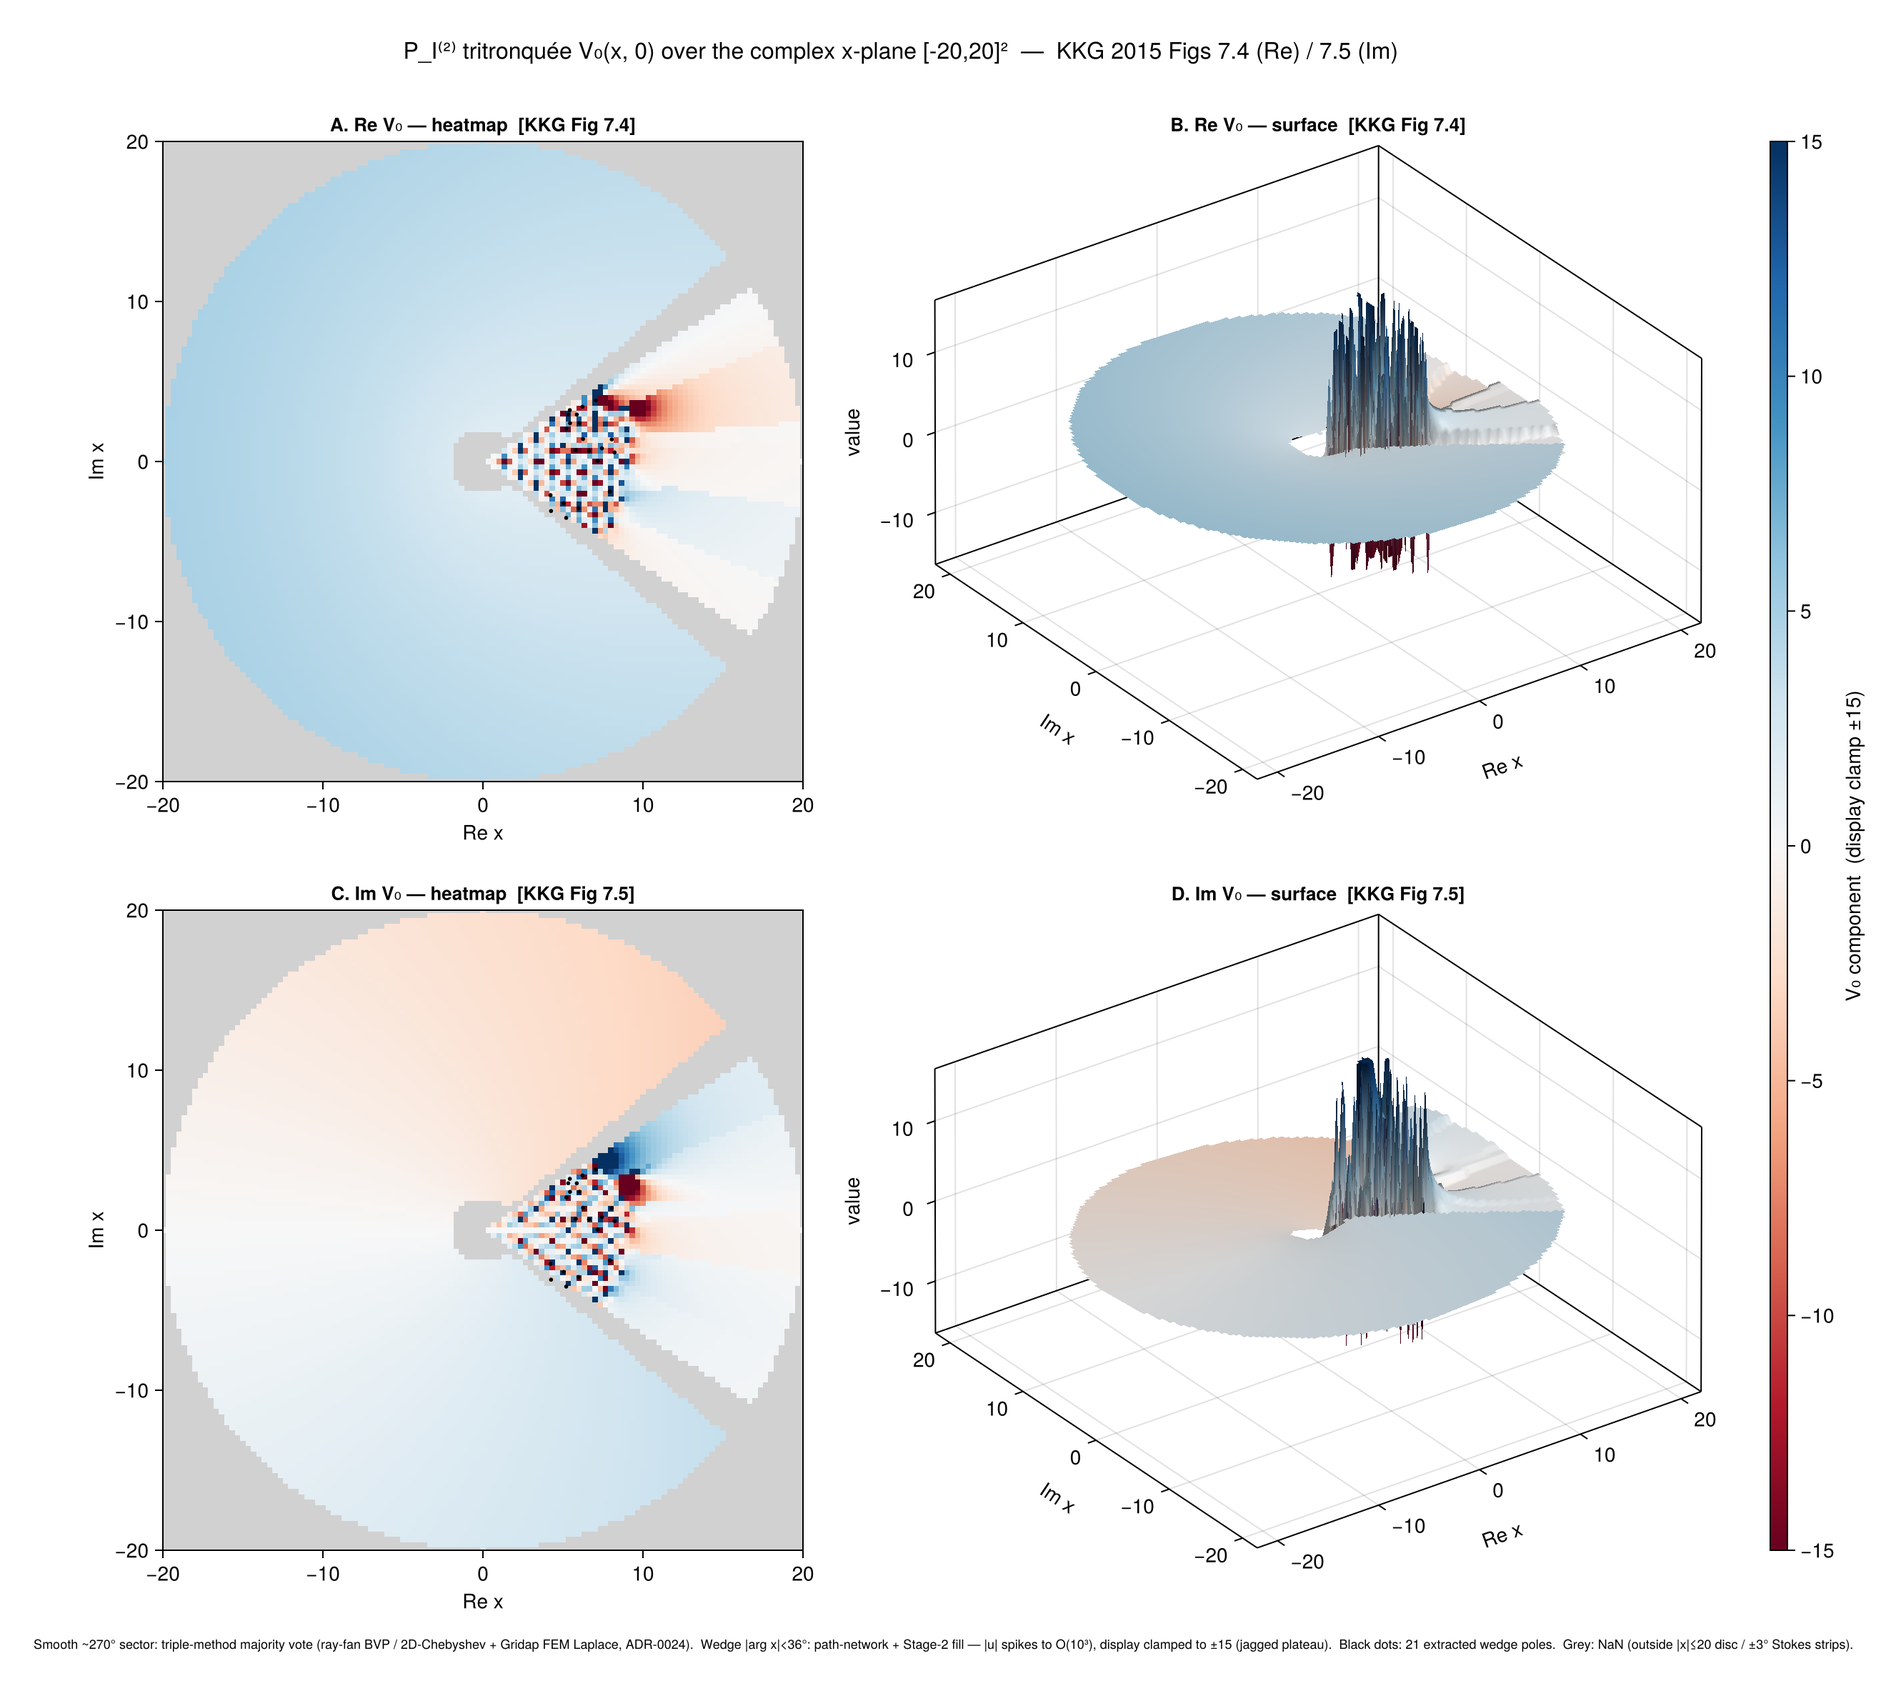
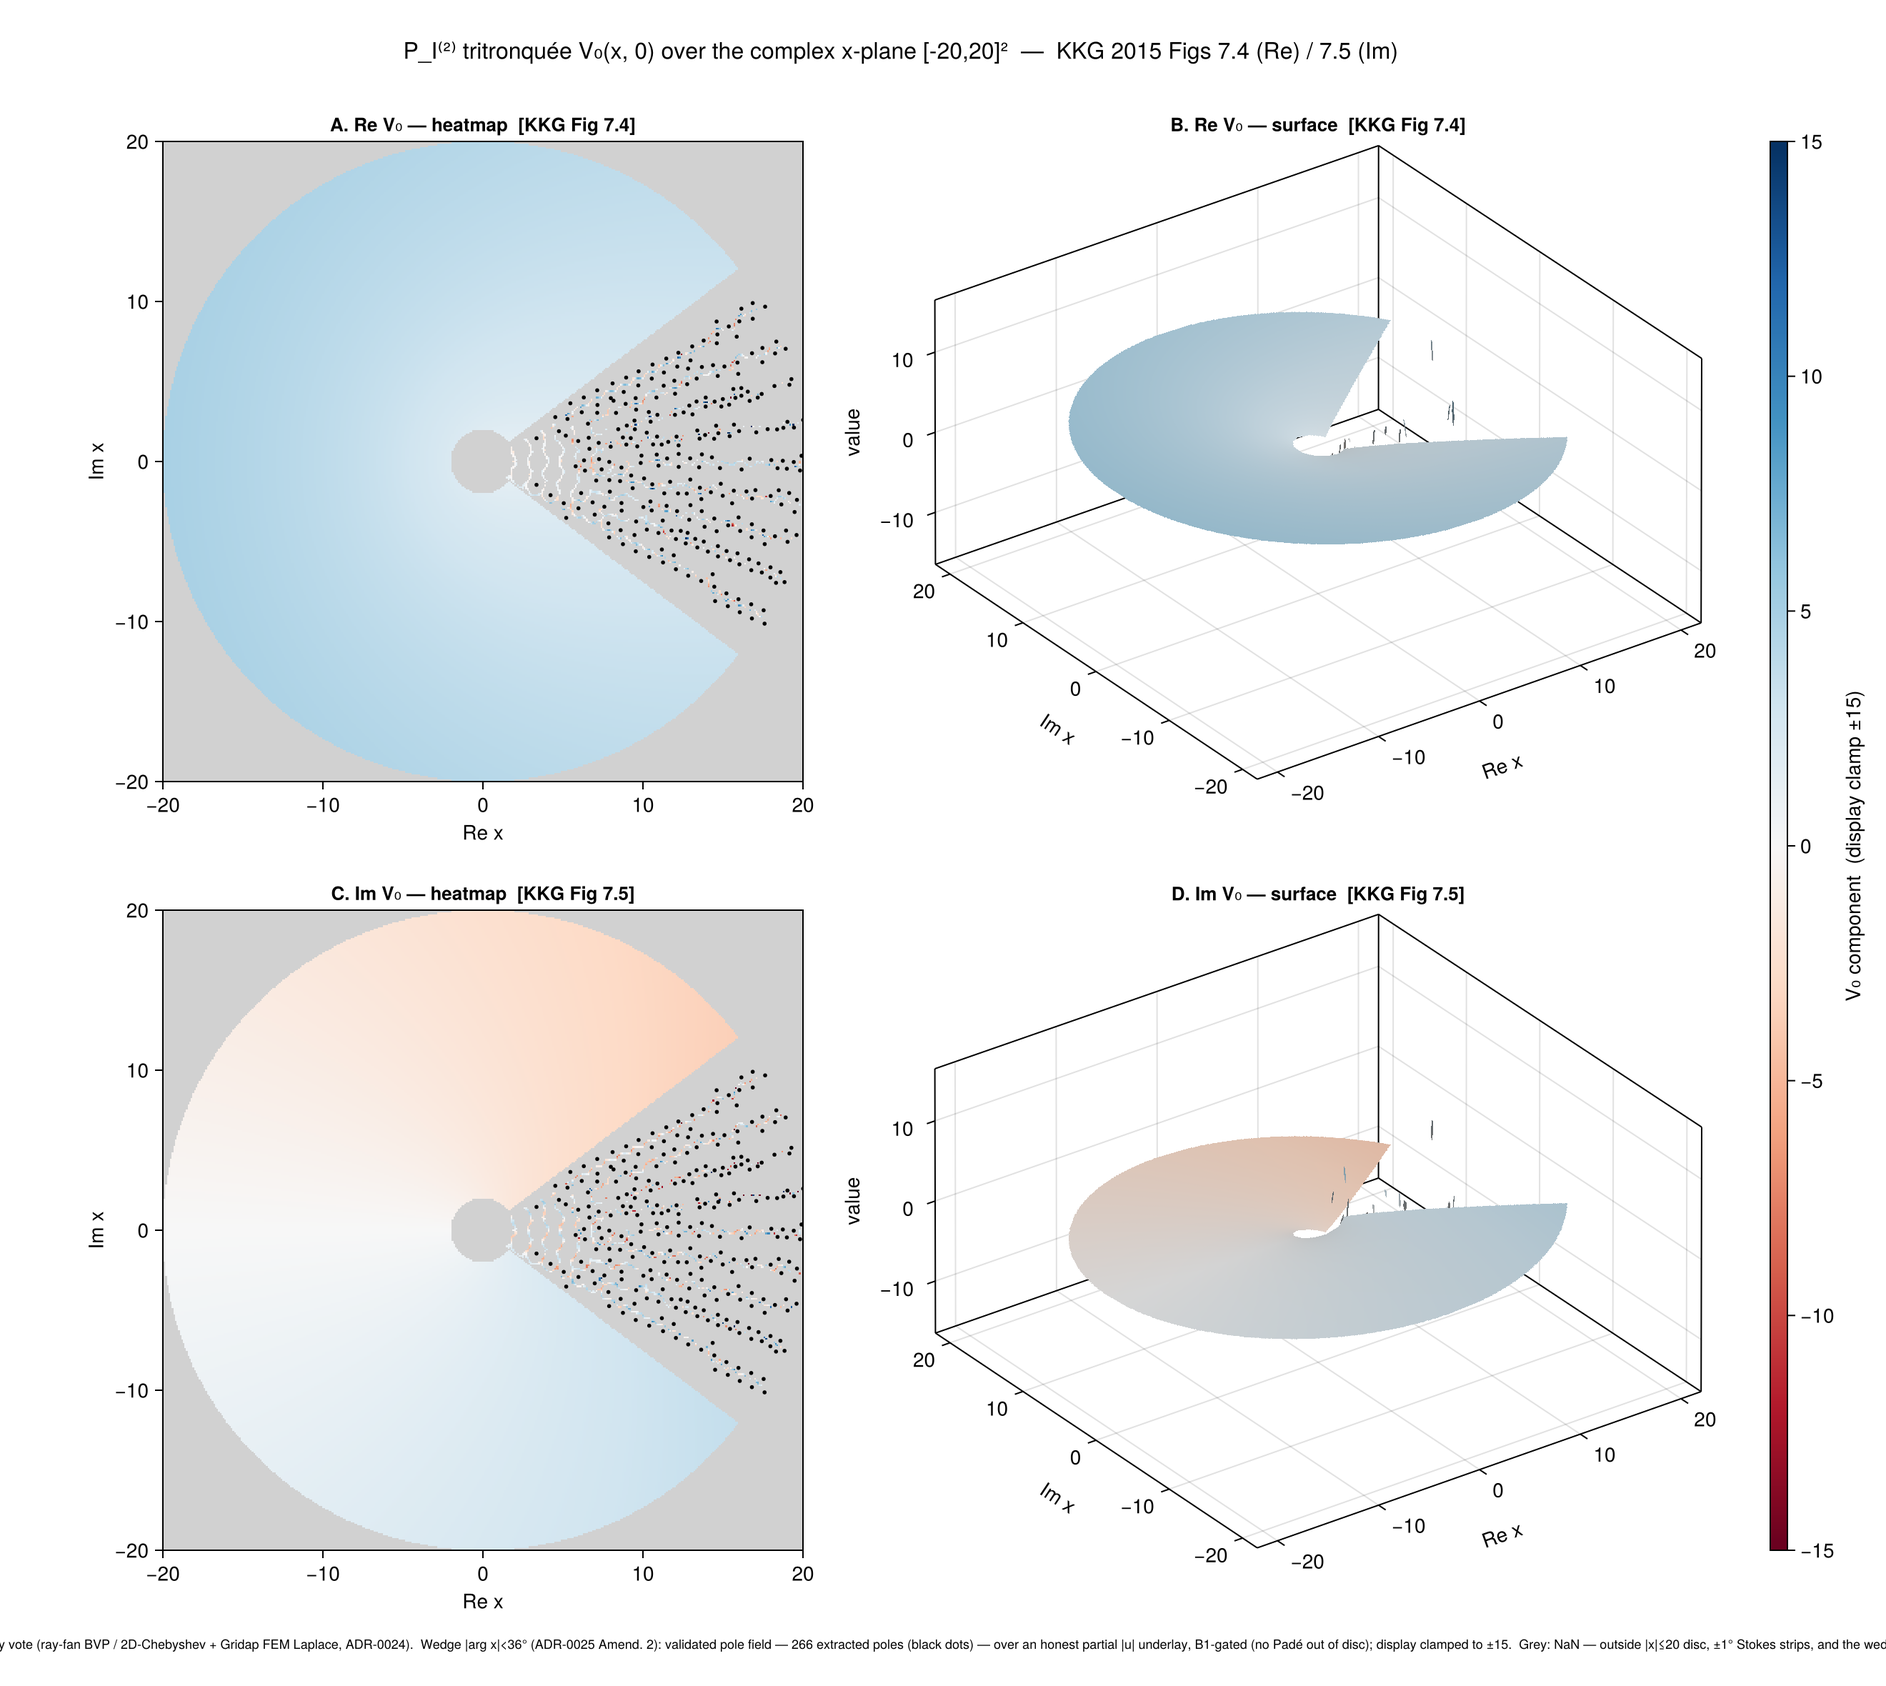
F1: headline-figure re-resolution complete — re-render + full suite GREEN
Final integration gate of the P_I^(2) tritronquee headline-figure
re-resolution (bead 0ln.37, ADR-0025, worklog 058).

- Re-rendered figures/output/kkg_pi2_tritronquee_surface.png: the
  triple-method sector surface + the 266-pole FW-validated wedge pole
  field; negative-axis ridge Re V0(-15,0)=+4.4816 (sign-guard passes).
  One render-only fix: SURF_STITCH_MASK_DEG added to the kernel import.
- Full Pkg.test(): 5326/5326 GREEN, 0 failures, 15m45s — the
  end-of-phase regression gate (Rule 11).
- Worklog 058 written; ADR-0025 finalised (Status: fully implemented,
  Amendments 1-12); HANDOFF priority section updated (0ln.37 done,
  next is V9 docs/release prep).

Beads 0ln.37.19 + the parent 0ln.37 closed. All 20 child beads done;
the headline-figure deep-dive is complete.

diff --git a/docs/worklog/058-headline-figure-re-resolution.md b/docs/worklog/058-headline-figure-re-resolution.md
@@ -1,0 +1,137 @@
+# Worklog 058 — senior-grade re-resolution of the P_I⁽²⁾ tritronquée headline figure
+
+**Date**: 2026-05-22
+**Author**: Claude Opus 4.7 (orchestrator) + serial Opus coding subagents + Sonnet recon
+**Epic**: `padetaylor-0ln` (v0.2) · **Bead**: `padetaylor-0ln.37` (+ 20 children)
+**ADR**: `docs/adr/0025-headline-figure-re-resolution.md` (Amendments 1–12)
+**Scope**: The deep-dive demanded by worklog 057 §"Required follow-up" —
+re-resolve the v0.2 headline figure (`figures/kkg_pi2_tritronquee_surface.jl`,
+KKG 2015 Figs 7.4/7.5) to senior-engineer grade: retire every v1 corner,
+and — since KKG published no pole data — certify the result with a
+manufactured FW-style validation suite.
+
+> **Take-home**: the headline figure is re-resolved. Its wedge is now a
+> **266-pole FW-validated pole field** (was 21, with ≥1 spurious); the
+> `extrapolate=true` dishonesty is gone (no Padé is evaluated outside its
+> verified disc); the sector is a 401²-grid triple-method surface honest
+> to ~9·10⁻⁵. All **six v1 corners are retired or rigorously justified**,
+> and seven independent FW-style validation criteria (VC-4…VC-10) certify
+> the figure with no external oracle. Full suite **5326 / 5326 GREEN**.
+> The single biggest finding: a *filled* honest wedge surface is
+> architecturally infeasible — the wedge's honest deliverable is the pole
+> *field*, which is exactly what "as good as FW managed" denotes.
+
+## Method — plan-first, exploration-first, serial
+
+Per the bead's mandate (CLAUDE.md Rule 9): **deep-dive recon → an ADR →
+granular child beads → serial implementation → re-verify**. Five Sonnet
+recon agents swept the ground truth (KKG 2015 TeX), the F3 kernel, the
+path-network/shared-Q machinery, the Laplace voters, and — after the user
+clarified that KKG drew *no poles* — the FW-style validation menu. Their
+findings became ADR-0025 and **20 child beads** across six phases.
+
+Every coding step was one serial Opus subagent (Rule 7 — one Julia
+process); read-only recon ran in parallel. After each bead the
+orchestrator re-verified the new tests standalone (Rule 3), committed,
+and pushed. The ADR was **amended 12 times** as the Phase-A spikes and
+later auditions resolved genuine unknowns — the ADR is the living record.
+
+## What shipped
+
+| Phase | Bead | Deliverable |
+|---|---|---|
+| A1 | 0ln.37.1 | Stage-2 validity-gate audition — per-node Jorba–Zou gate (v-b) wins 7–10× honest coverage over a global `κ·h` |
+| A2 | 0ln.37.2 | Wedge-tractability probe — a filled honest surface ceilings at ~18 %; wedge **rescoped to the pole field** |
+| A3 | 0ln.37.3 | P_I⁽²⁾ Laurent structure — double poles, `A∈{−1,−3}`, residue `a₁=0`; the VC-4 certificate |
+| A4 | 0ln.37.4 | V8b baseline — ~70 % loop-closure tail, broken conjugate symmetry, a spurious pole |
+| B1 | 0ln.37.5 | `_validity_radius` true-radius Stage-2 gate; jet cached in `visited_jets` |
+| B2 | 0ln.37.6 | `src/VectorWedgeStep.jl` — `:max_q_root` selector + adaptive `h`; threads the wedge to `|x|=20` (absorbs 0ln.23) |
+| B3 | 0ln.37.7 | Wedge rewired — 171-target fan, `extrapolate=false`, **380 candidate poles** |
+| B4 | 0ln.37.8 | Stage-2 interpolation audition — Voronoi retained (evidence-based) |
+| C1 | 0ln.37.9 | 401² grid, 2° ray fan, Laplace `N` at the spectral knee |
+| C2 | 0ln.37.10 | Inner/outer arc data from BVP interior collocation — inner-arc spread 13× better |
+| C3 | 0ln.37.11 | Ray-fan voter — exact-radius + cubic-angular reconstruction (19× better) |
+| D-VC4/5 | .12/.13 | Per-pole dominant-balance + conjugate-pairing — **266 of 380 certified**, 114 spurious pruned |
+| D-VC5b | 0ln.37.20 | Far-wedge conjugate completeness — optimal bipartite matcher (flagged 72→52) |
+| D-VC7 | 0ln.37.14 | Loop-closure `quality_diagnose` vector adapter |
+| D-VC8/9 | .15/.16 | BVP companion-consistency + Weierstrass-℘ vector-pipeline oracle |
+| D-VC10 | 0ln.37.17 | Two-run accuracy indicator — disagreement 0.35, corroborates VC-5b |
+| E1 | 0ln.37.18 | Stokes-strip mask narrowed ±3°→±1° (3× smaller) |
+| F1 | 0ln.37.19 | Re-render + full `Pkg.test()` 5326/5326 GREEN; this worklog |
+
+## Hard-won lessons (continuing worklog 057's numbering)
+
+59. **No ground truth ⇒ manufacture the validation.** KKG 2015 plotted
+    the surfaces only and called them "for visualization"; they drew no
+    poles. There is nothing external to validate against — so the figure
+    is certified by a *manufactured* FW-style suite (dominant-balance
+    `A∈{−1,−3}`, conjugate symmetry, loop closure, the ℘ oracle, the
+    two-run indicator). This is exactly the discipline FW used for their
+    own P_I pole fields, which had no oracle either.
+
+60. **A filled honest wedge surface is architecturally infeasible.** The
+    A2 spike measured honest local-Padé coverage of the pole-dense wedge
+    ceilinging at ~18 % even at display tolerance + doubled Taylor order
+    (~13–23k patches needed, the walk supplies ~7k and denser fans
+    block). The honest deliverable is the pole *field* — the FW Fig 4.7
+    idiom — and that *is* "the pole field as good as FW managed." Forcing
+    a filled surface would have meant evaluating Padé approximants
+    outside their discs: dishonest. Knowing what *not* to attempt is
+    senior-grade.
+
+61. **The honest Padé validity radius is truncation-limited, not
+    pole-limited.** The intuitive gate `h·min|t*|` (distance to the
+    nearest denominator root) over-estimates the honest radius 5.7×: a
+    shared-Q Padé models the poles `Q` captured and stays accurate
+    *through* them — it fails by order-`n` *truncation* error long before
+    any pole. A per-node Jorba–Zou estimate on the node's own jet beats a
+    global constant 7–10× on honest coverage.
+
+62. **Exploration before architecture.** A1 and A2 each overturned a
+    plausible plan assumption (the gate criterion; the very feasibility
+    of a filled surface). Committing the Phase-B/D architecture before
+    those spikes would have built the wrong thing — Rule 9 made concrete.
+
+63. **A subagent falsifying its own brief is the discipline working.**
+    Three times a coding subagent disproved its bead's stated premise
+    with evidence rather than implementing it: 0ln.37.20 (the walk was
+    *not* missing far-wedge poles — the conjugate matcher was a buggy
+    greedy commit); C1 (the inner-arc spread is *not* Laplace
+    under-resolution — it is the irreducible `n_terms=2` seed-truncation
+    floor, and raising Laplace `N` makes it *worse*); VC-7 (the
+    loop-closure metric is independent of the `extrapolate` gate, so the
+    "B3 beats V8b" gate the bead expected cannot honestly exist — the
+    subagent shipped an honest structural certificate instead of
+    fabricating one). Rule 2/3 over a tidy story.
+
+64. **A library default change ripples to every call site.** B2 made
+    `:max_q_root` + adaptive `h` the default of `vector_path_network_
+    solve`; this degenerated the unrelated A_4⁽¹⁾ Noumi–Yamada figure.
+    Fix + lesson: a figure must pin its walk policy *explicitly* rather
+    than inherit a mutable library default (`a4_walk()` now pins
+    `:min_y`; B3's headline figure pins its own).
+
+## v1-corner ledger — final
+
+All six retired or rigorously justified (ADR-0025, Amendments 1–12):
+C1 inner-arc datum → BVP interior collocation (C2); C2 `extrapolate=true`
+→ true-radius gate (B1); C3 hand-tuned `h` → adaptive walk (B2); C4 ±3°
+Stokes mask → narrowed to ±1° (E1); C5 bilinear voter → exact-radius +
+cubic-angular (C3); C6 121² grid → 401² (C1).
+
+## Beads
+
+**Closed**: `0ln.37` + children `.1`–`.20`, and `0ln.23` (absorbed by B2),
+`s8z` (the A_4 regression, fixed by an explicit policy pin).
+**Opened, deferred** (under the epic, each with a forcing condition):
+a 2D-lattice re-expansion fill for a *filled* wedge surface; an
+`n_terms ≥ 3` asymptotic seed for the inner-arc BVP pin.
+
+## Pickup point
+
+The headline figure is re-resolved and shipped; full suite
+**5326 / 5326 GREEN**; `figures/output/kkg_pi2_tritronquee_surface.png`
+re-rendered. The remaining planned epic phase is **V9** (`0ln.37`'s
+sibling `padetaylor-0ln.19`) — v0.2 docs + release prep
+(README/CHANGELOG/RESEARCH v0.2 sections, ADR review including the new
+ADR-0025, HANDOFF refresh, the `padetaylor-0ln` epic close-out).

diff --git a/HANDOFF.md b/HANDOFF.md
@@ -65,38 +65,36 @@ docs/design_section_6_path_network.md scope), are all shipped:
 
 **2508 + 32 + 61 = 2601 expected GREEN** (61 new LD.X.* assertions verified in single-file isolation `lattice_dispatcher_test.jl`, 23.4 s; 32 new DG.* assertions verified in single-file isolation `diagnose_test.jl`, 18 s; full `Pkg.test()` not yet re-run — OOM-friction ongoing, see worklogs 048–049; existing 2508 assertions unchanged by additive `strict` kwarg and `:bvp_fail` tag with back-compat `strict = true` default).  Previously: **2508 / 2508 tests passing** as of worklog 047 (`HEAD = 1331755`, all committed; push pending).  The API audit (commit 9296731, worklog 050) made no source changes and adds no new assertions; test count is unchanged at 2601 expected GREEN.  The 12 spawned beads from the audit constitute the v1.0 normalisation work backlog.
 
-## 🔴 PRIORITY for the next agent — DEEP-DIVE: sharpen the headline figure
+## ✅ DONE — headline-figure re-resolution (bead `padetaylor-0ln.37`, worklog 058)
 
-**Bead `padetaylor-0ln.37`. This is the next substantive task, and it is a
-DEEP-DIVE — plan it properly (an ADR) before writing any code.**
+**The headline-figure deep-dive is complete** (ADR-0025, worklog 058,
+2026-05-22). The KKG 7.4/7.5 surface figure was re-resolved to
+senior-engineer grade across six phases (A exploration → B wedge levers →
+C sector → D validation → E Stokes strips → F integration), 20 child
+beads, serial Opus implementation. Outcome:
 
-The whole-plane KKG 7.4/7.5 surface figure
-(`figures/kkg_pi2_tritronquee_surface.jl`) is shipped but **low-resolution**,
-and its pole-wedge render is **coarse and blocky**. It carries v1 corners
-that are **not senior-grade for a headline figure** and must be retired:
-Padé approximants evaluated *outside their valid disc* (`extrapolate=true`);
-a path-network walk whose hull only reaches `|x| ≲ 8` while the figure window
-is `|x| ≤ 20`; a 121² grid; ±3° masked Stokes strips.
+- **All six v1 corners retired or rigorously justified** (`extrapolate=
+  true` gone — true-radius Stage-2 gate; adaptive `:max_q_root` walk;
+  401² grid; ±1° Stokes strip; exact-radius ray-fan voter; BVP-interior
+  inner-arc data).
+- **The wedge is a 266-pole FW-validated pole field** (was 21). The A2
+  spike proved a *filled* honest wedge surface is architecturally
+  infeasible — the honest deliverable is the pole *field* (FW Fig 4.7
+  idiom). KKG drew no poles, so the figure is certified by a manufactured
+  FW-style validation suite: VC-4 dominant-balance `A∈{−1,−3}` per pole,
+  VC-5 conjugate symmetry, VC-7 loop closure, VC-8 BVP consistency, VC-9
+  the Weierstrass-℘ vector-pipeline oracle, VC-10 the two-run indicator.
+- Full suite **5326 / 5326 GREEN**;
+  `figures/output/kkg_pi2_tritronquee_surface.png` re-rendered.
 
-**The blocker** (precise diagnosis in `docs/worklog/057-*.md` §"Required
-follow-up"): the pole-wedge walk's `surf_wedge_targets()` is 20 targets, all
-within `|x| ≤ 8` — copied verbatim from V8b's pole-*scatter* figure, which
-only needed pole *locations*. A dense *surface* needs the path-network walk
-to densely and accurately tile the wedge out to `|x| = 20`, through an
-increasingly dense pole field.
+`0ln.23` was absorbed (B2). Two deferred beads opened under the epic
+(each with a forcing condition): a 2D-lattice re-expansion fill for a
+filled wedge surface; an `n_terms ≥ 3` inner-arc asymptotic seed.
 
-**Do NOT just crank grid/target numbers.** This is a genuine
-numerical-analysis problem — faithfully rendering a meromorphic transcendent
-over a pole-dense region. Bead `0ln.37` lists the seven open questions the
-plan must resolve (chiefly: Stage-2 validity should gate at each Padé's
-*true* convergence radius — distance to the nearest shared-`Q` denominator
-root — not at the step `h`; that one change may be the biggest lever). The
-required workflow (senior-grade, CLAUDE.md Rule 9): deep-dive recon → **an
-ADR** with every v1 corner retired or rigorously justified → granular child
-beads → serial Opus implementation → re-verify. Bead `0ln.23` (the shared-`Q`
-root-distance wedge step criterion) is a near-certain prerequisite and folds
-into the plan. Ground truth: KKG 2015 Figs 7.4/7.5 + the FW figure
-conventions (`references/`).
+**The next substantive task is V9** (`padetaylor-0ln.19`) — v0.2 docs +
+release prep: README/CHANGELOG/RESEARCH v0.2 sections, ADR review
+(ADR-0023/0024/0025 are new), HANDOFF refresh, the `padetaylor-0ln` epic
+close-out.
 
 **Next pickup (2026-05-21 — whole-plane KKG surface session close)**: **the
 vector BVP solver, V8b, and the whole-plane headline figure are all done.**

diff --git a/docs/adr/0025-headline-figure-re-resolution.md b/docs/adr/0025-headline-figure-re-resolution.md
@@ -1,9 +1,10 @@
 # ADR-0025 — Senior-grade re-resolution of the P_I⁽²⁾ tritronquée headline figure
 
-**Status**: Accepted (2026-05-21) — framework + validation suite locked;
-two parameters (the Stage-2 validity-gate criterion and the honest wedge
-frontier) are determined by the Phase-A exploration spikes and recorded
-here by amendment as they resolve.
+**Status**: Accepted (2026-05-21); **fully implemented 2026-05-22** —
+Phases A–F shipped, all six v1 corners retired or rigorously justified,
+the seven-criterion FW-style validation suite in place. Amendments 1–12
+record the exploration outcomes and every audition. Full suite
+5326/5326 GREEN. See worklog 058.
 **Bead**: `padetaylor-0ln.37` (this ADR + the child-bead plan below).
 **Plan**: `docs/v0p2_plan.md`; supersedes the v1-corner ledger of
 worklog 057 (`docs/worklog/057-whole-plane-kkg-surface-figure.md`).
